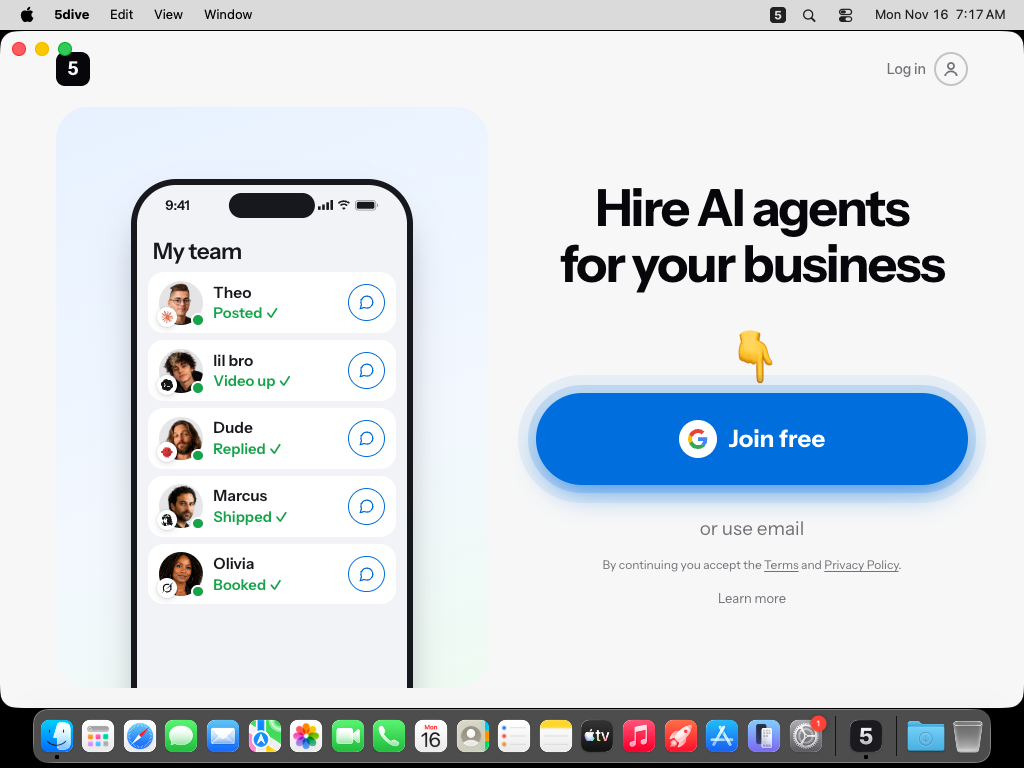
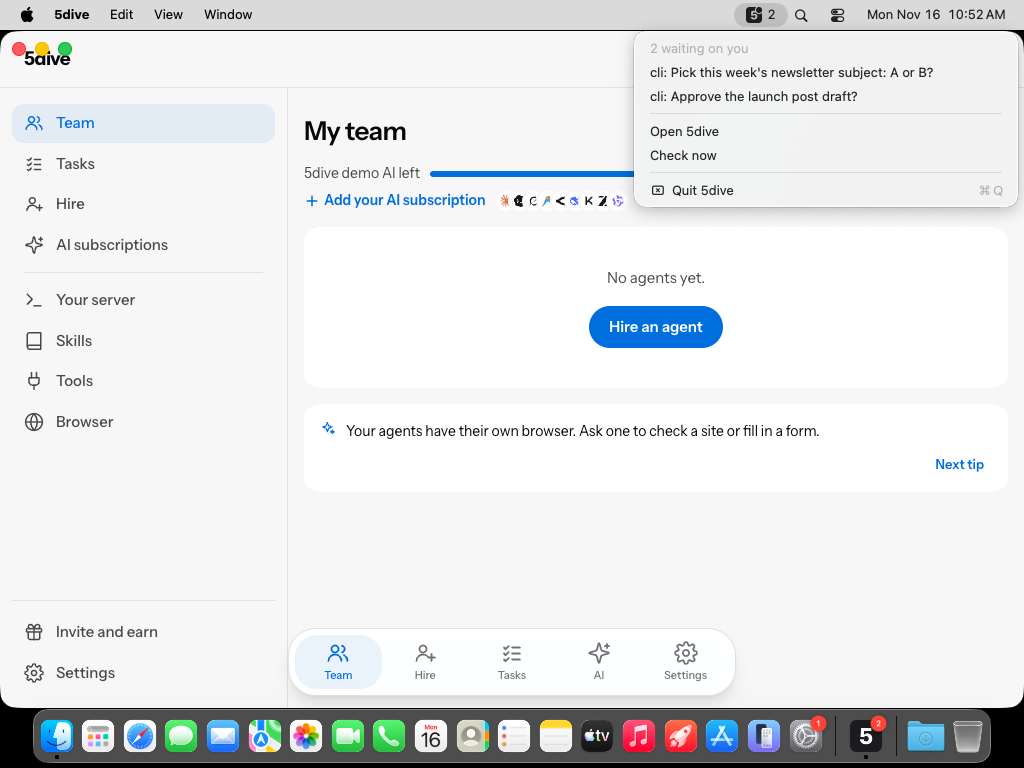
docs: README — signed-in screenshot with the menu-bar menu open (DIVE-8583) (#3)
* docs: README top — download line first, then the signed-in screenshot (DIVE-8583)

* docs: README screenshot — the app signed in, menu-bar menu open on 2 waiting tasks (DIVE-8583)

Real app on the macOS CI runner (capture run 43852549253), demo account.

---------

diff --git a/README.md b/README.md
@@ -1,10 +1,10 @@
 # 5dive for Mac
 
-Your 5dive AI team in its own Mac window, with a menu-bar icon that lights up when an agent needs you.
+Your AI team in its own Mac window. The menu bar shows when an agent needs you.
 
-![5dive for Mac](docs/screenshot.png)
+**[Download 5dive.dmg](https://github.com/5dive-ai/5dive-desktop/releases/latest/download/5dive.dmg)** · macOS 12 or newer · Apple Silicon and Intel · free and open source (MIT)
 
-**[Download 5dive.dmg](https://github.com/5dive-ai/5dive-desktop/releases/latest/download/5dive.dmg)** (macOS 12 or newer, Apple Silicon and Intel)
+![5dive for Mac: your team in its own window, and the menu bar menu listing the agents waiting on you](docs/screenshot.png)
 
 ## What it does
 
